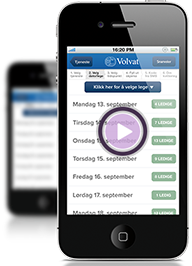
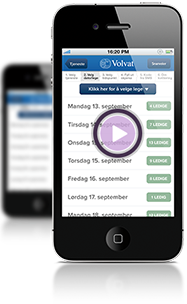
HW7. 768

diff --git a/Practice/HW7/css/width760.css b/Practice/HW7/css/width760.css
@@ -56,12 +56,12 @@
     }
 
     .slider__img {
-        width: 36.5%;
+        width: 35.5%;
         margin-top: -131px;
     }
 
     .slider__switch {
-        margin-top: 78px;
+        margin-top: 25px;
         padding-left: 71%;
     }
 
@@ -215,4 +215,54 @@
             margin-left: 7.25%;
             margin-top: 2px;
         }
+        /*NEWS CATEGORIES*/
+
+        .news_categories {
+            display: flex;
+            justify-content: space-between;
+            padding-top: 101px;
+        }
+
+        .news_categories__post {
+            margin-left: 1.25%;
+            margin-bottom: 95px;
+            overflow: hidden;
+            width: 28.5%;
+        }
+
+        .news_categories__post:last-child {
+            margin-top: 0;
+            margin-left: 0;
+        }
+
+        .news_categories__title {
+            margin-bottom: 9px;
+        }
+
+        .news_categories__summary {
+            height: 167px;
+        }
+
+        /*FOOTER*/
+        .footer {
+            padding-bottom: 132px;
+        }
+
+        .footer__menu {
+            padding-top: 41px;
+        }
+
+        .footer__nav {
+            margin-left: 1.25%;
+            width: 70%;
+        }
+
+        .footer__summary {
+            margin: 31px 1.75% 0 0;
+            float: right;
+        }
+
+
+
+
 }

diff --git a/Practice/HW7/css/style.css b/Practice/HW7/css/style.css
@@ -9,6 +9,7 @@
 }
 .hidden-all {
     visibility: hidden;
+    position: absolute;
 }
 
 .position-center {
